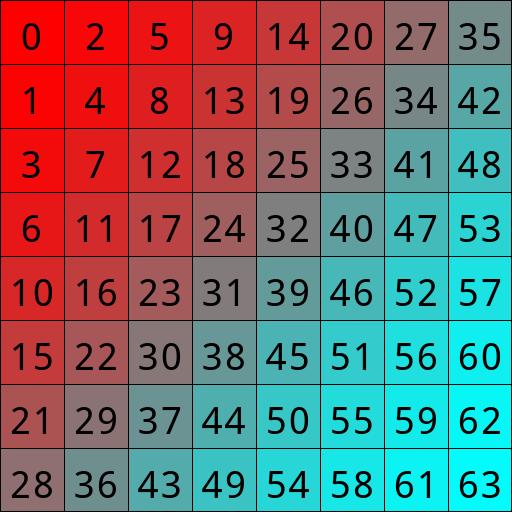
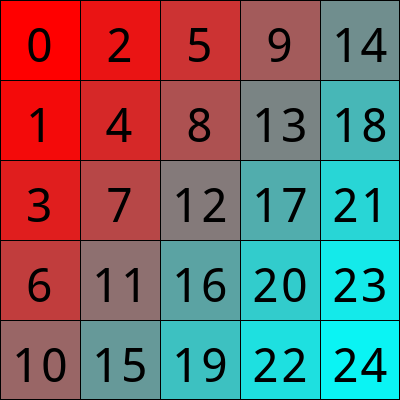
lots of small updates   + updated images and formatting in Readme
+ updated code examples in readme

  + moved tests to their own directory

  + organized Grid.py into its own package directory

  + updated makefile to generate api-docs

diff --git a/tests/test_grid.py b/tests/test_grid.py
@@ -2,22 +2,35 @@ import unittest
 import Grid
 
 
+def diagonal_generator(n : int):
+    return (
+        (a, b) 
+        for a in range(2*n-1)
+        for b in ( range(0,a+1) if a < n else  range(0, 2*n-a -1) )
+    )
+
+def matrix2d_generator(m : int, n : int):
+    return (
+        (i, j) for i in range(m) for j in range(n)
+    )
+
+
 class TestGrid(unittest.TestCase):
 
     def assertInvertibility(self, f, f_inv, domain, codomain):
             
             # extract generators so we can reuse them.
-            list_domain, list_codomain = list(domain), list(codomain)
+            domain, codomain = list(domain), list(codomain)
 
             # check f(f_inv) is the identity on the codomain
             self.assertEqual(
-                list_codomain,
-                list( map(lambda x: f(f_inv(x)), list_codomain) )
+                codomain,
+                list( map(lambda x: f(f_inv(x)), codomain) )
             )
             # check f_inv(f) is the identity on the domain
             self.assertEqual(
-                list_domain,
-                list( map(lambda x: f_inv(f(x)), list_domain) )
+                domain,
+                list( map(lambda x: f_inv(f(x)), domain) )
             )
     
     def test_generators(self):
@@ -26,11 +39,11 @@ class TestGrid(unittest.TestCase):
         n = 8
 
         self.assertEqual(
-            len(list(Grid.diagonal_generator(n))),
+            len(list(diagonal_generator(n))),
             n**2
         )
         self.assertEqual(
-            len(list(Grid.matrix2d_generator(m, n))),
+            len(list(matrix2d_generator(m, n))),
             m*n
         )
 
@@ -46,7 +59,7 @@ class TestGrid(unittest.TestCase):
                     range(n*n) 
                 )
             ),
-            list(Grid.diagonal_generator(n))
+            list(diagonal_generator(n))
         )
         self.assertEqual(
             list(
@@ -55,7 +68,7 @@ class TestGrid(unittest.TestCase):
                     range(m*n) 
                 )
             ),
-            list(Grid.matrix2d_generator(m, n))
+            list(matrix2d_generator(m, n))
         )
 
     def test_invertibility(self):
@@ -66,20 +79,20 @@ class TestGrid(unittest.TestCase):
         self.assertInvertibility(
             lambda i : Grid.matrix2d_to_flat(n, *i),
             lambda i : Grid.flat_to_matrix2d(n, i),
-            Grid.matrix2d_generator(m, n),
+            matrix2d_generator(m, n),
             range(m*n)
         )
         self.assertInvertibility(
             lambda i : Grid.matrix2d_to_diagonal(n, *i),
             lambda i : Grid.diagonal_to_matrix2d(n, *i),
-            Grid.matrix2d_generator(m, n),
-            Grid.diagonal_generator(n)
+            matrix2d_generator(m, n),
+            diagonal_generator(n)
         )
         self.assertInvertibility(
             lambda i : Grid.flat_to_diagonal(n, i),
             lambda i : Grid.diagonal_to_flat(n, *i),
             range(n*n),
-            Grid.diagonal_generator(n)
+            diagonal_generator(n)
         )
         
 

diff --git a/Grid/Grid.py b/Grid/Grid.py
@@ -1,6 +1,6 @@
 from typing import Tuple, Iterable
 from math import sqrt, floor
-import functools
+
 
 Double = Tuple[int, int]
 Triple = Tuple[int, int, int]
@@ -8,9 +8,54 @@ Triple = Tuple[int, int, int]
 '''
 Grid
 ====
-This module provides functions to do convert between
-labellings of the
+:author: Thomas Vandeven
+:date: August 2019
+
+This module provides functions for conversion between different labelling.
+See pictures in Readme.rst for a visual describing coordinate mapping.
 '''
+
+def diagonal_generator(n : int):
+    '''
+    diagonal_generator
+    ==================
+    Generate the coordinates for the diagonals.
+
+    Parameters
+    ----------
+    n : int
+        the number of rows and columns of the square matrix.
+    
+    Returns
+    -------
+    A generator producing diagonal coordinates.
+    '''
+    return (
+        (a, b) 
+        for a in range(2*n-1)
+        for b in ( range(0,a+1) if a < n else  range(0, 2*n-a -1) )
+    )
+
+def matrix2d_generator(m : int, n : int):
+    '''
+    matrix2d_generator
+    ==================
+    Generate the coordinates for a matrix in lexicographical order.
+
+    Parameters
+    ----------
+    m : int
+        number of rows in the matrix.
+    n : int
+        number of columns in the matrix.
+    
+    Returns
+    -------
+    A generator producing matrix coordinates.
+    '''
+    return (
+        (i, j) for i in range(m) for j in range(n)
+    )
 
 
 def flat_to_matrix2d(n: int, i : int) -> Tuple[int, int]:
@@ -32,12 +77,6 @@ def flat_to_matrix2d(n: int, i : int) -> Tuple[int, int]:
     Tuple[int, int]
     '''
     return divmod(i, n)
-
-
-def flat_to_matrix3d(l: int, m: int, i: int) -> Tuple[int,int,int]:
-    z, y = divmod(i, l*m)
-    y, x = divmod(i, l)
-    return (x, y, z)
 
 
 def flat_to_diagonal(n : int, i : int) -> Tuple[int,int]:

diff --git a/docs/conf.py b/docs/conf.py
@@ -10,10 +10,9 @@
 # add these directories to sys.path here. If the directory is relative to the
 # documentation root, use os.path.abspath to make it absolute, like shown here.
 #
-# import os
-# import sys
-# sys.path.insert(0, os.path.abspath('.'))
-
+import os
+import sys
+sys.path.insert(0, os.path.abspath('..'))
 
 # -- Project information -----------------------------------------------------
 
@@ -27,7 +26,11 @@ author = 'Thomas Vandeven'
 # Add any Sphinx extension module names here, as strings. They can be
 # extensions coming with Sphinx (named 'sphinx.ext.*') or your custom
 # ones.
+import sphinx_rtd_theme
 extensions = [
+    'sphinx.ext.autodoc',
+    'sphinx.ext.napoleon',
+    "sphinx_rtd_theme"
 ]
 
 # Add any paths that contain templates here, relative to this directory.
@@ -44,9 +47,13 @@ exclude_patterns = []
 # The theme to use for HTML and HTML Help pages.  See the documentation for
 # a list of builtin themes.
 #
-html_theme = 'alabaster'
+html_theme = "sphinx_rtd_theme"
 
 # Add any paths that contain custom static files (such as style sheets) here,
 # relative to this directory. They are copied after the builtin static files,
 # so a file named "default.css" will overwrite the builtin "default.css".
 html_static_path = ['_static']
+
+source_suffix = '.rst'
+
+master_doc = 'index'

diff --git a/make_graphics.py b/make_graphics.py
@@ -4,7 +4,7 @@ from PIL import Image, ImageDraw, ImageFont
 from typing import Iterable, Tuple, Callable, List
 import math
 import typing_extensions
-import Grid
+from GridPy import Grid
 
 def matrix_graphic(
     im : Image,
@@ -20,8 +20,11 @@ def matrix_graphic(
 
     Parameters
     ----------
+    im : PIL.Image
+        The image to print on.
+
     n : int
-        the number of rows and column of the square
+        The number of rows and column of the square.
     
     coordinate: Callable[int, Tuple[int,int]]
         Get the matrix coordinate of the current flat index.
@@ -37,7 +40,7 @@ def matrix_graphic(
     Returns
     -------
     None
-        generates a file with filename name + '.png' in the current directory.
+        prints a square grid indexed by coordinate onto image.
     '''
     draw = ImageDraw.Draw(im)
 
@@ -53,6 +56,7 @@ def matrix_graphic(
 
     for i in range(n*n):
         
+        # x, y swapped order so we can show matrix coordinates
         y, x = coordinate(i)
         square = size/n
         draw.rectangle( 

diff --git a/Grid/__init__.py b/Grid/__init__.py
@@ -1,0 +1,1 @@
+from .Grid import *

diff --git a/docs/README.rst b/docs/README.rst
@@ -1,8 +1,7 @@
 ======
-GridPY
+GridPy
 ======
 
-:Author: Thomas Vandeven
 
 Overview
 --------
@@ -40,43 +39,49 @@ flat to matrix 2d
 ~~~~~~~~~~~~~~~~~
 
 .. figure :: ../matrix.png
-    :height: 512
-    :width: 512
+    :height: 400
+    :width: 400
     :alt: image missing
     :align: center
     :scale: 50
 
 **Code Example:**
 
->>>[ flat_to_matrix2d(4, i) for i in range(4*4) ]
+.. code-block :: shell
 
-[(0, 0), (0, 1), (0, 2), (0, 3), (1, 0), (1, 1), (1, 2), (1, 3),
-(2, 0), (2, 1), (2, 2), (2, 3), (3, 0), (3, 1), (3, 2), (3, 3)]
+    >>> [ Grid.flat_to_matrix2d(5, i) for i in range(5*5) ]
+    [(0, 0), (0, 1), (0, 2), (0, 3), (0, 4), (1, 0), (1, 1),
+     (1, 2), (1, 3), (1, 4), (2, 0), (2, 1), (2, 2), (2, 3),
+     (2, 4), (3, 0), (3, 1), (3, 2), (3, 3), (3, 4), (4, 0),
+     (4, 1), (4, 2), (4, 3), (4, 4)]
 
 flat to diagonal
 ~~~~~~~~~~~~~~~~
 
 .. image :: ../diagonal.png
-    :height: 512
-    :width: 512
+    :height: 400
+    :width: 400
     :alt: image missing
     :align: center
     :scale: 50
 
 **Code Example:**
 
->>>[ flat_to_diagonal(4, i) for i in range(4*4) ]
+.. code-block:: shell
 
-[(0, 0), (1, 0), (1, 1), (2, 0), (2, 1), (2, 2), (3, 0), (3, 1),
-(3, 2), (3, 3), (4, 0), (4, 1), (4, 2), (5, 0), (5, 1), (6, 0)]
+    >>> [ Grid.flat_to_diagonal(5, i) for i in range(5*5) ]
+    [(0, 0), (1, 0), (1, 1), (2, 0), (2, 1), (2, 2), (3, 0),
+     (3, 1), (3, 2), (3, 3), (4, 0), (4, 1), (4, 2), (4, 3),
+     (4, 4), (5, 0), (5, 1), (5, 2), (5, 3), (6, 0), (6, 1),
+     (6, 2), (7, 0), (7, 1), (8, 0)]
 
 Tests
 -----
 This module contains tests. If you would like to activate them, run:
 
-.. code::
+.. code :: shell
 
-    $ python3 -m unittest test_grid.py
+    $ python3 -m unittest discover tests
     ...
     ----------------------------------------------------------------------
     Ran 3 tests in 0.001s

diff --git a/docs/modules/Grid.rst b/docs/modules/Grid.rst
@@ -1,0 +1,22 @@
+Grid package
+============
+
+Submodules
+----------
+
+Grid.Grid module
+----------------
+
+.. automodule:: Grid.Grid
+   :members:
+   :undoc-members:
+   :show-inheritance:
+
+
+Module contents
+---------------
+
+.. automodule:: Grid
+   :members:
+   :undoc-members:
+   :show-inheritance:

diff --git a/docs/index.rst b/docs/index.rst
@@ -9,8 +9,9 @@ Welcome to GridPy's documentation!
 .. toctree::
    :maxdepth: 2
    :caption: Contents:
-    
-    ../Readme
+
+   README
+   modules/modules
 
 
 Indices and tables

diff --git a/docs/modules/modules.rst b/docs/modules/modules.rst
@@ -1,0 +1,7 @@
+Grid
+====
+
+.. toctree::
+   :maxdepth: 4
+
+   Grid
